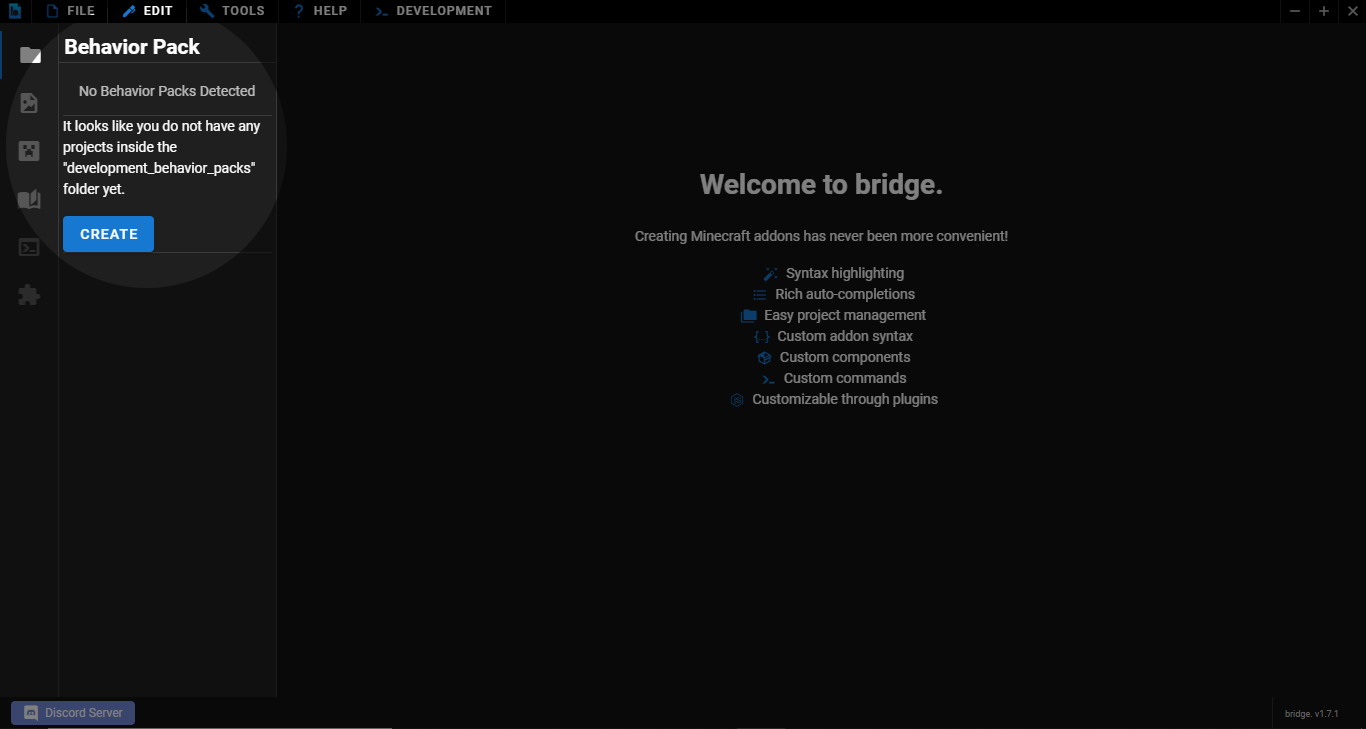
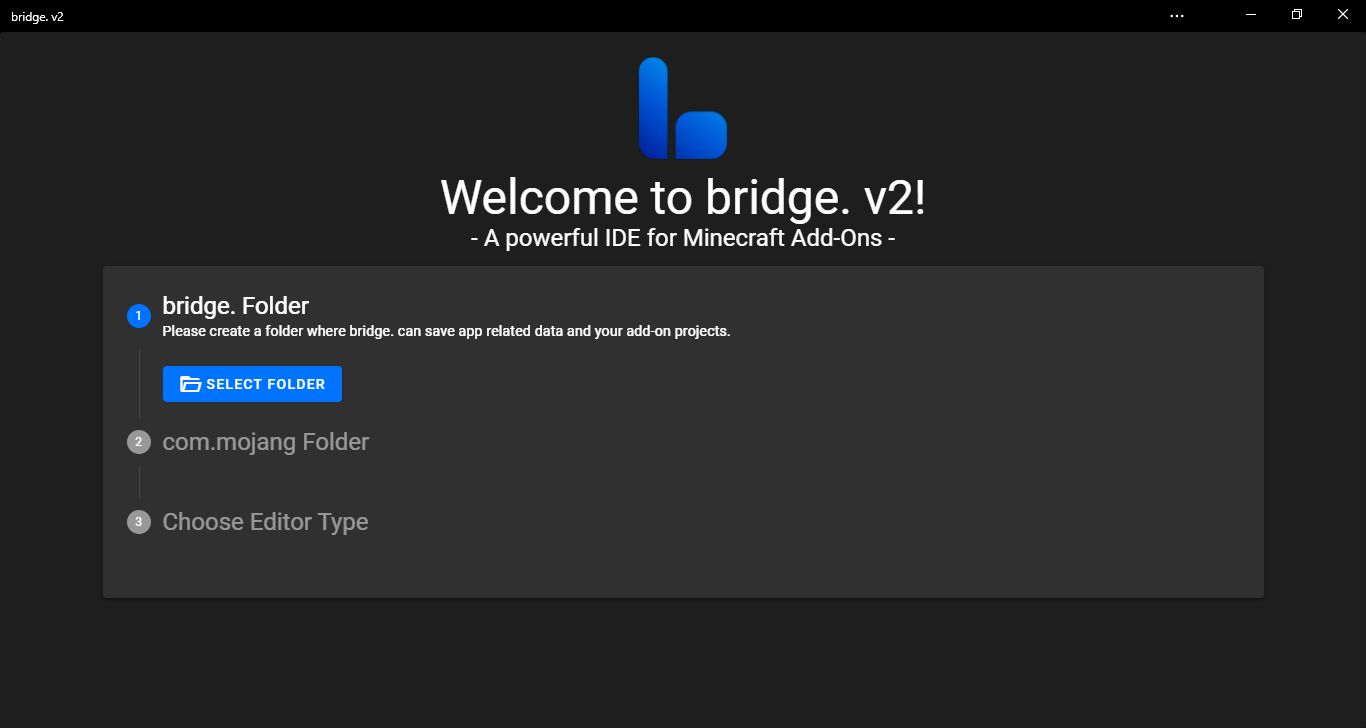
upd: getting started guide v2

diff --git a/content/docs/editor-docs/getting-started/index.md b/content/docs/editor-docs/getting-started/index.md
@@ -1,81 +1,92 @@
 ---
-description: 'Are you looking for help to get started with bridge.? This guide aims to introduce you to the editor and make you familiar with how to use it.'
+description: 'Are you looking for help to get started with bridge.? This guide aims to introduce you to the editor and make you more familiar with how to use it.'
 sidebar: 'editor'
 author: 'joelant05'
 ---
 
 # Getting Started
 
+## Setting up bridge.
+
+In order to start using bridge., you must first open it. bridge. v2 is a PWA meaning it can be used in a supported browser and/or installed to your system. To access bridge. v2 head to https://editor.bridge-core.app and to install it click the **Install App** prompt in the sidebar, which you will be able to click after creating your first project, or by clicking the install button on the right of the URL bar.
+
+The first time you open bridge., you will be met with a setup screen, where you must follow 3 simple steps.
+
+1. Select the folder where bridge. should store its projects. This should not be your `com.mojang` folder. Make sure to give permissions in the prompt that will pop up.
+
+![Setup: Step 1](./getting-started-1.png)
+
+2. Link your `com.mojang` folder to bridge., by dragging it from the Minecraft directory (`C:\Users\<USER>\AppData\Local\Packages\Microsoft.MinecraftUWP_8wekyb3d8bbwe\LocalState\games\com.mojang`). This step is optional and can be skipped, however doing so will mean your projects will not automatically be compiled to your Minecraft development packs folders. Make sure to give permissions in the prompt that will pop up.
+
+![Setup: Step 2](./getting-started-2.png)
+
+3. Choose your editor type. You can choose to use the [Tree Editor](#Tree-Editor) or the [Code Editor](#Code-Editor).
+
+![Setup: Step 3](./getting-started-3.png)
+
 ## Creating a project
 
 To get started making addons with bridge. you need to create a project.
 
 With bridge., creating a new project is easy.
-You need to click the create project button to open the project creation window.
+If this is your first project and you have just set up bridge., the project creation window will automatically appear. Otherwise, to open the project creation window, click the **New Project** button in the Quick Actions menu on the welcome screen, or click the first button on the sidebar to open the **Projects** window and click **New Project** in the top right of the window.
 
-![No projects - Create project](./getting-started-1.png)
+Here you can customize your pack to your liking. You can modify the:
 
-Here you can give your project a name, description and choose whether you want to register client data in the pack manifest - _this only needs to be toggled on if you're using Minecraft's scripting api in your addon._
+-   Pack types your project should contain.
+-   Name and description of your project.
+-   Author of your projects.
+-   Pack icon of your project.
+-   Target Minecraft version of your project.
+-   Project namespace. **The prefix of identifiers used in your pack, e.g `minecraft` in `minecraft:apple`**
 
-![Create project window](./getting-started-2.png)
+There are also toggles to enable/disable things like registering the RP as a BP dependency.
 
-Once you've done that, you can click **Create!** and bridge. will set up the project files including the manifest.
+![Create project window](./getting-started-4.png)
 
-You should also set the namespace for your project for better auto-completions and syntax highlighting. The option to change this is found by clicking the 'More' icon _(the three dots)_ in the top left and clicking **Project Namespace**. A window will then appear allowing you to change the project namespace.
-
-## Creating a resource pack
-
-Creating a resource pack in bridge. is just as easy.
-On the sidebar, you will see 6 buttons - the first one shows your behavior pack and the second shows your resource pack.
-
-To add a resource pack to your project, you need to select the resource pack on the sidebar and you will see two buttons, **Create** and **Link**
-
-![Create resource pack](./getting-started-3.png)
-
-**Link** will allow you to link an existing resource pack in the `development_resource_packs` folder to your project. The resource pack will then be made a dependency of your selected behavior pack.
-
-**Create** will open a resource pack creation window where you can input a name and description for your resource pack.
-
-![Create resource pack window](./getting-started-4.png)
-
-Once you have done that click create and your resource pack will be created and linked to your behvaior pack.
+Once you've done that, you can click **Create!** and bridge. will set up all of the neccessary project files.
 
 ## Creating files
 
 bridge. supports creating **all** files that Minecraft supports.
-You can create a file in your Behavior Pack and Resource pack by clicking the new file button, or double clicking the welcome screen.
+You can create a file in your Behavior Pack, Resource pack, Skin pack or World template by clicking the new file button, or pressing `ctrl + n`.
 
 ![Create file button](./getting-started-5.png)
 
 Doing this will open the new file window. Here you will see a sidebar in the window which lets you select from all of the possible files you can create.
 
-_Remember you can scroll down the sidebar to see more file types you can create!_
+_Remember you can scroll down the sidebar or search to see more file types you can create!_
+bridge.'s preset window contains multiple categories:
+
+-   Block - Templates for different types of blocks.
+-   Entity - Templates for different types of entites.
+-   Item - Templates for different types of items.
+-   Simple Files - Allows you to create individual files.
+-   Skins - Allows you to add skins to the skin pack.
 
 ![Create File Window](./getting-started-6.png)
 
-Once you have selected a file, you will see that you need to input a file name.
-**Make sure you keep all file names and identifiers in `snake_case`, with no capital letters and underscores replacing spaces!**
+Once you have selected a file, you will see that you need to input an identifier/file name and possibly other inputs depending on the type of file you are trying to create.
 
-For most file types, you will also see a dropdown to select a template to work from. It is recommended that you select a template because it will make creating your file easier.
-Once you have done that, click **Create!** and your file will be created, placed in the correct folder and opened.
+Once you have done that, click **Create!** and the preset will be created and all created files will be opened.
 
 ## Editing files
 
 ### JSON
 
-When you open a JSON file with bridge., you will see the file displayed as an expandable tree, where you can drag nodes to reorder them and left clicking a node will select it. While a node is selected, you can use the 3 input boxes at the bottom.
+When you open a JSON file with bridge., it will open in either a code view editor or a tree view editor.
 
-![JSON Editor](./getting-started-7.png)
+#### Code Editor
 
-The input on the left will let you add a JSON object to the selected node.
-The input in the middle will let you add a value to the selected node.
-The input on the right will let you edit the currently selected node.
+The code view editor is a more traditional way of editing, giving you access to typing whatever you want in the file. It is a similar editing experience to VSCode but with all of the other amazing tools and features that bridge. has to offer.
 
-When you right click on a node it will open the hover card, where you can cut, copy, paste, delete and open the documentaion for the curently selected node.
+![Code Editor](./getting-started-7.png)
 
-![Hover Card](./getting-started-8.png)
+#### Tree Editor
 
-_There is currently a work in progress, updated JSON renderer which will feature a new, fresh way to edit JSON files!_
+Similar to the editor featured in bridge. v1, the tree editor is recommended for users that have little knowledge of JSON because you can't make syntax errors.
+
+![Tree Editor](./getting-started-8.png)
 
 ### Other file types
 
@@ -89,49 +100,48 @@ bridge. also supports opening and editing other file types, including:
 
 ![Javascript](./getting-started-10.png)
 
-### .lang
-
-LANG files are what give your entities, items, etc. proper names.
-
-![Language](./getting-started-17.png)
-
 ## Unique editing features
 
-bridge. includes tools that will make your developing experience quicker and easier!
+bridge. includes many tools and features that will make your developing experience quicker and easier!
 
-### Presets
+### File previews
 
-Presets are a feature that lets you create a whole entity, block, item and much more, by entering an identifier and clicking **Create!** bridge. will then add all the files you need for whatever you select and it will use the identifier you entered inside the created files.
+File previews are a feature which allow you to view different features inside of bridge., such as previewing entities and seeing their hitbox and rider positions or even particles with hot-reloading so that changes made the particle file are instantly reflected in the preview.
 
-![Tools > Preset](./getting-started-11.png)
+![Entity Viewer](./getting-started-11.png)
 
-![Preset Window](./getting-started-12.png)
+![Particle Viewer](./getting-started-12.png)
 
-### Snippets
+### Go to definition
 
-Snippets can be used by pressing `ctrl + q` while you have a JSON file open. Snippets allow you to quickly insert JSON into a file. bridge. has snippets for entity behavior files, but more can be added with plugin or you can create your own by going to the toolbar and clicking **File > Preferences > Settings** Then you can select the Snippets tab in the window's sidebar and click the plus icon under Custom Snippets.
+bridge. includes "Go To Definition" data to allow you quickly jump between files.
 
-![Settings > Snippets](./getting-started-13.png)
+For example:
 
-![Snippet Window](./getting-started-14.png)
+![Go To Definition](./getting-started-13.png)
 
-### Custom syntax
+Here, the client entity file with the matching identifier has been found.
 
-bridge. has custom syntax in JSON files that allow you to make complex features quickly.
-An example of custom syntax is the `bridge:item_equipped_sensor` component which can be found in item behavior files. This component allows you to easily execute commands when you hold the item, trigger events when you equip/unequip the item and have components active on the player while holding/not holding the item.
+### Custom Syntax
 
-![bridge:item_equipped_sensor](./getting-started-15.png)
+bridge. has many different custom syntax capabilities. It's specialized compiler makes it easier to add custom syntax into projects. You can even create your own [compiler plugins](/extension-docs/compiler-plugins)!
+
+Built-in custom syntax includes:
+
+-   [Custom components](/extension-docs/custom-components/)
+-   [Custom commands](/extension-docs/custom-commands/)
+-   [Custom molang](/extension-docs/custom-molang)
+
+With more available on the extension store!
 
 ## Customizing bridge.
 
-bridge. features a plugin api which allows you to customize UI add new snippets, presets, themes and much more!
+bridge. features an extension api which allows you to customize UI add new tab types, presets, themes and much more!
 
-You can either [create your own plugins](/plugin-docs/) or download plugins made by others from the extension store.
-This can be found by clicking the extensions tab on the sidebar and the pressing **View Extensions**. From here you can download from a collection of plugins to modify your experience with bridge.
+You can either [create your own extensions](/extension-docs/) or download extensions made by others from the extension store.
+This can be found by clicking the **Extensions** button on the sidebar. From here you can download from a collection of extensions to modify your experience with bridge.
 
-![Open extension store](./getting-started-16.png)
-
-bridge. also has a powerful feature for experienced users that allows you to write Javascript to create your own [Custom Components](/plugin-docs/custom-components/), which can be used in entity behavior files to quickly re-use behaviors and [Custom Commands](/plugin-docs/custom-commands/), which can be used inside .mcfunction files to make writing long and complex functions easier.
+![Extension Store](./getting-started-14.png)
 
 ## Need Help?
 

diff --git a/content/docs/extension-docs/custom-components.md b/content/docs/extension-docs/custom-components.md
@@ -7,7 +7,7 @@ sidebar: 'extensions'
 
 ## General
 
-bridge. allows you to define new entity, block and item components. In order to get started, navigate to the "Custom Components" tab in the preset window and fill in the options, so whether you want to write the component in TypeScript or JavaScript and the file name, as well as whether you want to create an item, entity or block component. If you are creating the component outside of bridge., or in an extension, you need to create a js or ts file in the `BP/components/<COMPONENT TYPE>` or `<EXTENSION NAME>/components/<COMPONENT TYPE>` folder.
+bridge. allows you to define new entity, block and item components to make writing long and complex and repetitive behaviors quicker. In order to get started, navigate to the "Custom Components" tab in the preset window and fill in the options, so whether you want to write the component in TypeScript or JavaScript and the file name, as well as whether you want to create an item, entity or block component. If you are creating the component outside of bridge., or in an extension, you need to create a js or ts file in the `BP/components/<COMPONENT TYPE>` or `<EXTENSION NAME>/components/<COMPONENT TYPE>` folder.
 
 ## Execution Scope
 

diff --git a/content/docs/extension-docs/custom-commands.md b/content/docs/extension-docs/custom-commands.md
@@ -7,7 +7,7 @@ sidebar: 'extensions'
 
 ## General
 
-bridge. allows you to define new commands that can be used in `.mcfunction` files and json files where commands are supported. In order to get started, navigate to the "Custom Commands" tab in the preset window and fill in the options, so whether you want to write the command in TypeScript or JavaScript and the file name. If you are creating the command outside of bridge., or in an extension, you need to create a js or ts file in the `BP/commands` or `<EXTENSION NAME>/commands` folder.
+bridge. allows you to define new commands, to make writing long and complex functions easier. They can be used in `.mcfunction` files and json files where commands are supported. In order to get started, navigate to the "Custom Commands" tab in the preset window and fill in the options, so whether you want to write the command in TypeScript or JavaScript and the file name. If you are creating the command outside of bridge., or in an extension, you need to create a js or ts file in the `BP/commands` or `<EXTENSION NAME>/commands` folder.
 
 ## Execution Scope
 
